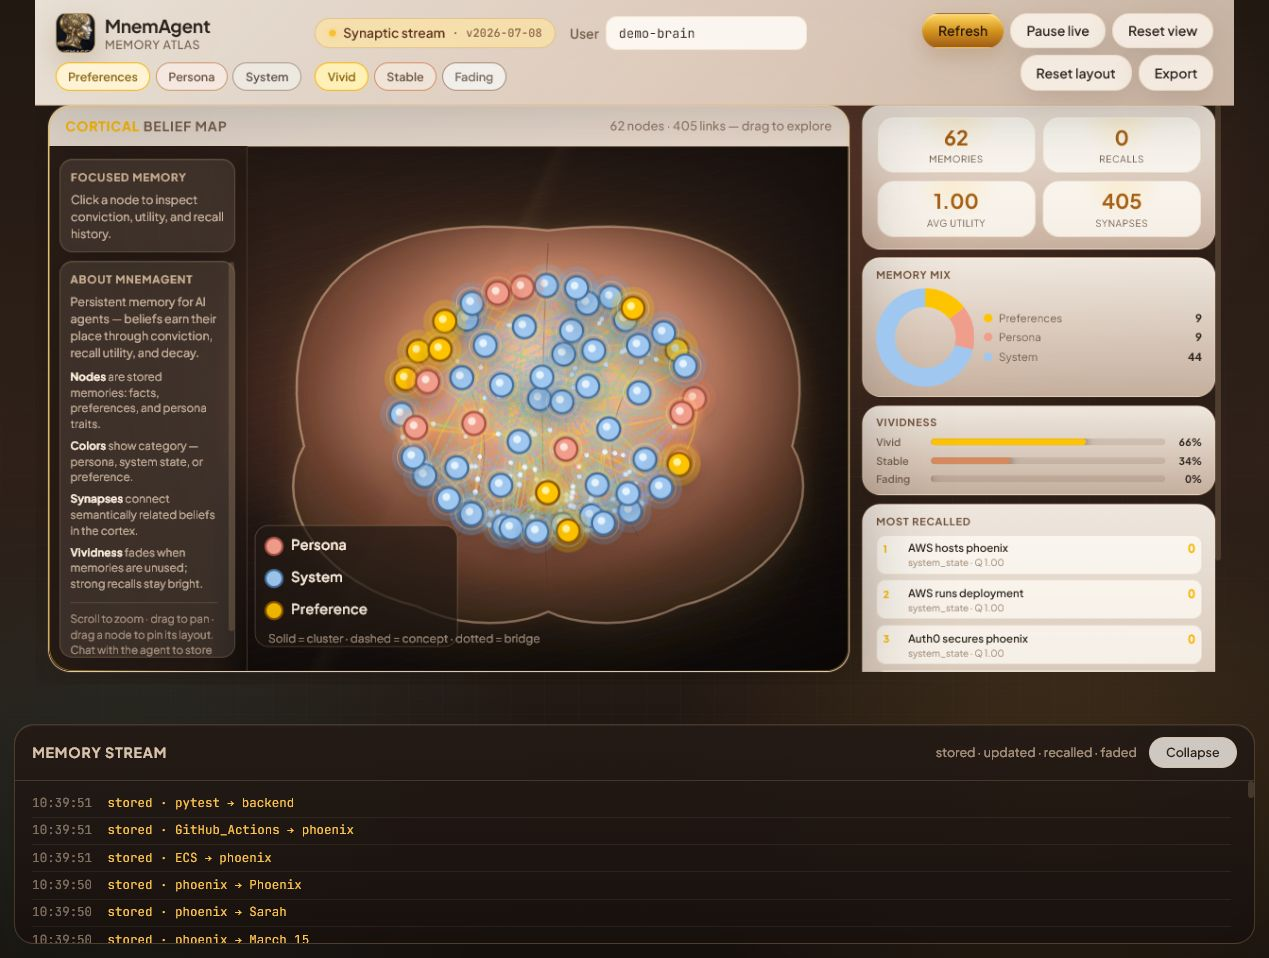
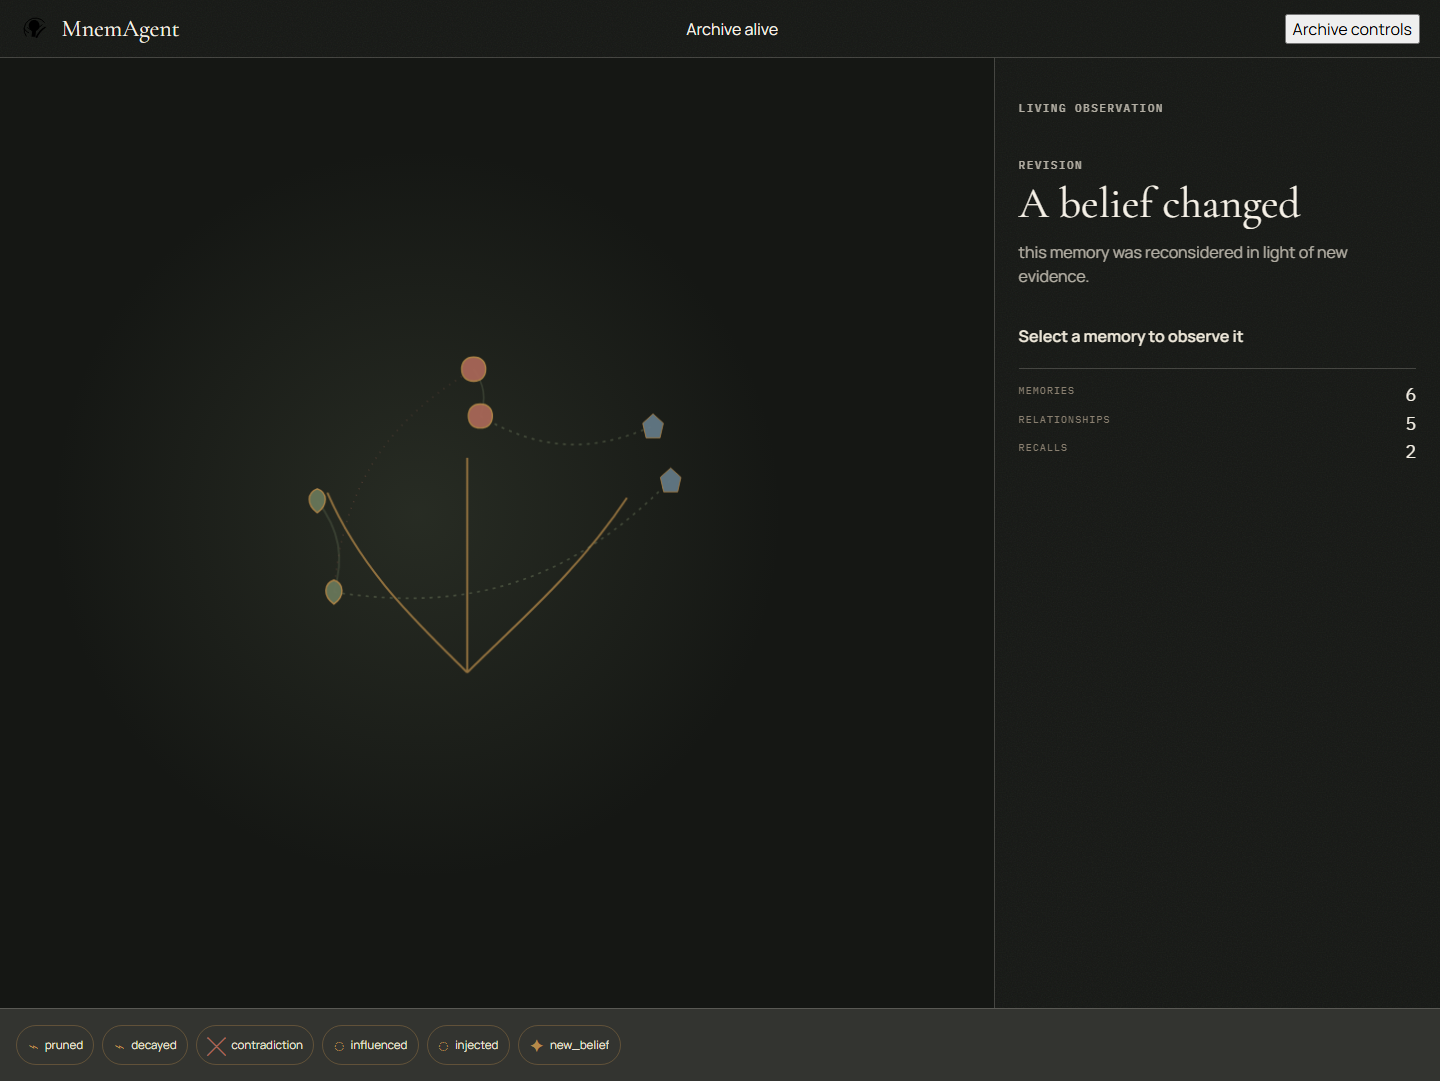
feat: finalize archive composition

diff --git a/openclaw-harness/src/public/scripts/layout.js b/openclaw-harness/src/public/scripts/layout.js
@@ -20,7 +20,7 @@ const ANGLES = { preference: -145, persona: -90, system_state: -35 };
 const rad = d => d * Math.PI / 180;
 export function computeArchiveLayout(memories = [], relationships = [], { width = 1000, height = 720, selectedMemoryId = null } = {}) {
   const sx = width / 1000, sy = height / 720, marginX = width * .06, marginY = height * .08;
-  const root = { x: 430 * sx, y: 620 * sy };
+  const root = { x: 470 * sx, y: 390 * sy };
   const withIds = (Array.isArray(memories) ? memories : []).map(m => ({ ...m, id: String(m.id || `memory-${hashString(`${m.category}|${m.source || m.entity_source}|${m.relation}|${m.target || m.entity_target}`)}`) }));
   const sorted = withIds.slice().sort((a,b) => String(a.id).localeCompare(String(b.id)));
   const collapsedSet = sorted.length > 80 ? new Set(sorted.filter(m => String(m.id) !== String(selectedMemoryId) && Number(m.vitality ?? m.node_weight) < .45).slice(20).map(m => String(m.id))) : new Set();
@@ -28,7 +28,7 @@ export function computeArchiveLayout(memories = [], relationships = [], { width 
     const id = String(m.id ?? `memory-${i}`), category = normalizeCategory(m.category), vitality = Math.max(0, Math.min(1, Number(m.vitality ?? m.node_weight) || 0));
     const r = seededRandom(id), angle = rad(ANGLES[category] + (r() - .5) * 24), radius = 120 + (1 - vitality) * 220 + r() * 65;
     const x = root.x + Math.cos(angle) * radius * sx, y = root.y + Math.sin(angle) * radius * sy;
-    return { id, category, grove: category, x: Math.max(marginX, Math.min(width-marginX, x)), y: Math.max(marginY, Math.min(height-marginY, y)), vitality, radius: 10 + vitality * 8, collapsed: collapsedSet.has(id) };
+    return { id, category, grove: category, x: Math.max(marginX, Math.min(width-marginX, x)), y: Math.max(marginY, Math.min(height-marginY, y)), vitality, radius: 14 + vitality * 10, collapsed: collapsedSet.has(id) };
   });
   for (let it=0; it<32; it++) for (let i=0;i<nodes.length;i++) for (let j=i+1;j<nodes.length;j++) { const a=nodes[i],b=nodes[j], dx=b.x-a.x,dy=b.y-a.y,d=Math.hypot(dx,dy)||1,min=a.radius+b.radius+5; if(d<min){const q=(min-d)/d*.5; a.x=Math.max(marginX, a.x-dx*q); a.y=Math.max(marginY,a.y-dy*q); b.x=Math.min(width-marginX,b.x+dx*q); b.y=Math.min(height-marginY,b.y+dy*q);} }
   const byId = new Map(nodes.map(n => [n.id,n]));

diff --git a/openclaw-harness/src/public/scripts/render/living-structure.js b/openclaw-harness/src/public/scripts/render/living-structure.js
@@ -64,7 +64,7 @@ export function createLivingStructure(svgElement, { onSelect = () => {}, onTrace
       .attr('r', d => (nodeById.get(String(d.id))?.radius || 10) + 5)
       .attr('fill', 'none').attr('stroke', 'var(--bone-white)').attr('opacity', 0);
     world.select('g.skeleton').selectAll('*').remove();
-    world.select('g.skeleton').append('path').attr('class', 'root-crown').attr('d', 'M430,620 C390,570 350,520 330,450 M430,620 C430,550 430,480 430,390 M430,620 C470,565 520,520 575,455').attr('fill', 'none').attr('stroke', 'var(--antique-brass)').attr('stroke-width', 2);
+    world.select('g.skeleton').append('path').attr('class', 'root-crown').attr('d', 'M470,500 C420,450 365,400 330,320 M470,500 C470,435 470,370 470,285 M470,500 C520,450 580,400 630,325').attr('fill', 'none').attr('stroke', 'var(--antique-brass)').attr('stroke-width', 2);
   }
 
   return { render, setInteractive(enabled) { svg.attr('data-interactive', Boolean(enabled)); }, destroy() { world.selectAll('*').remove(); } };